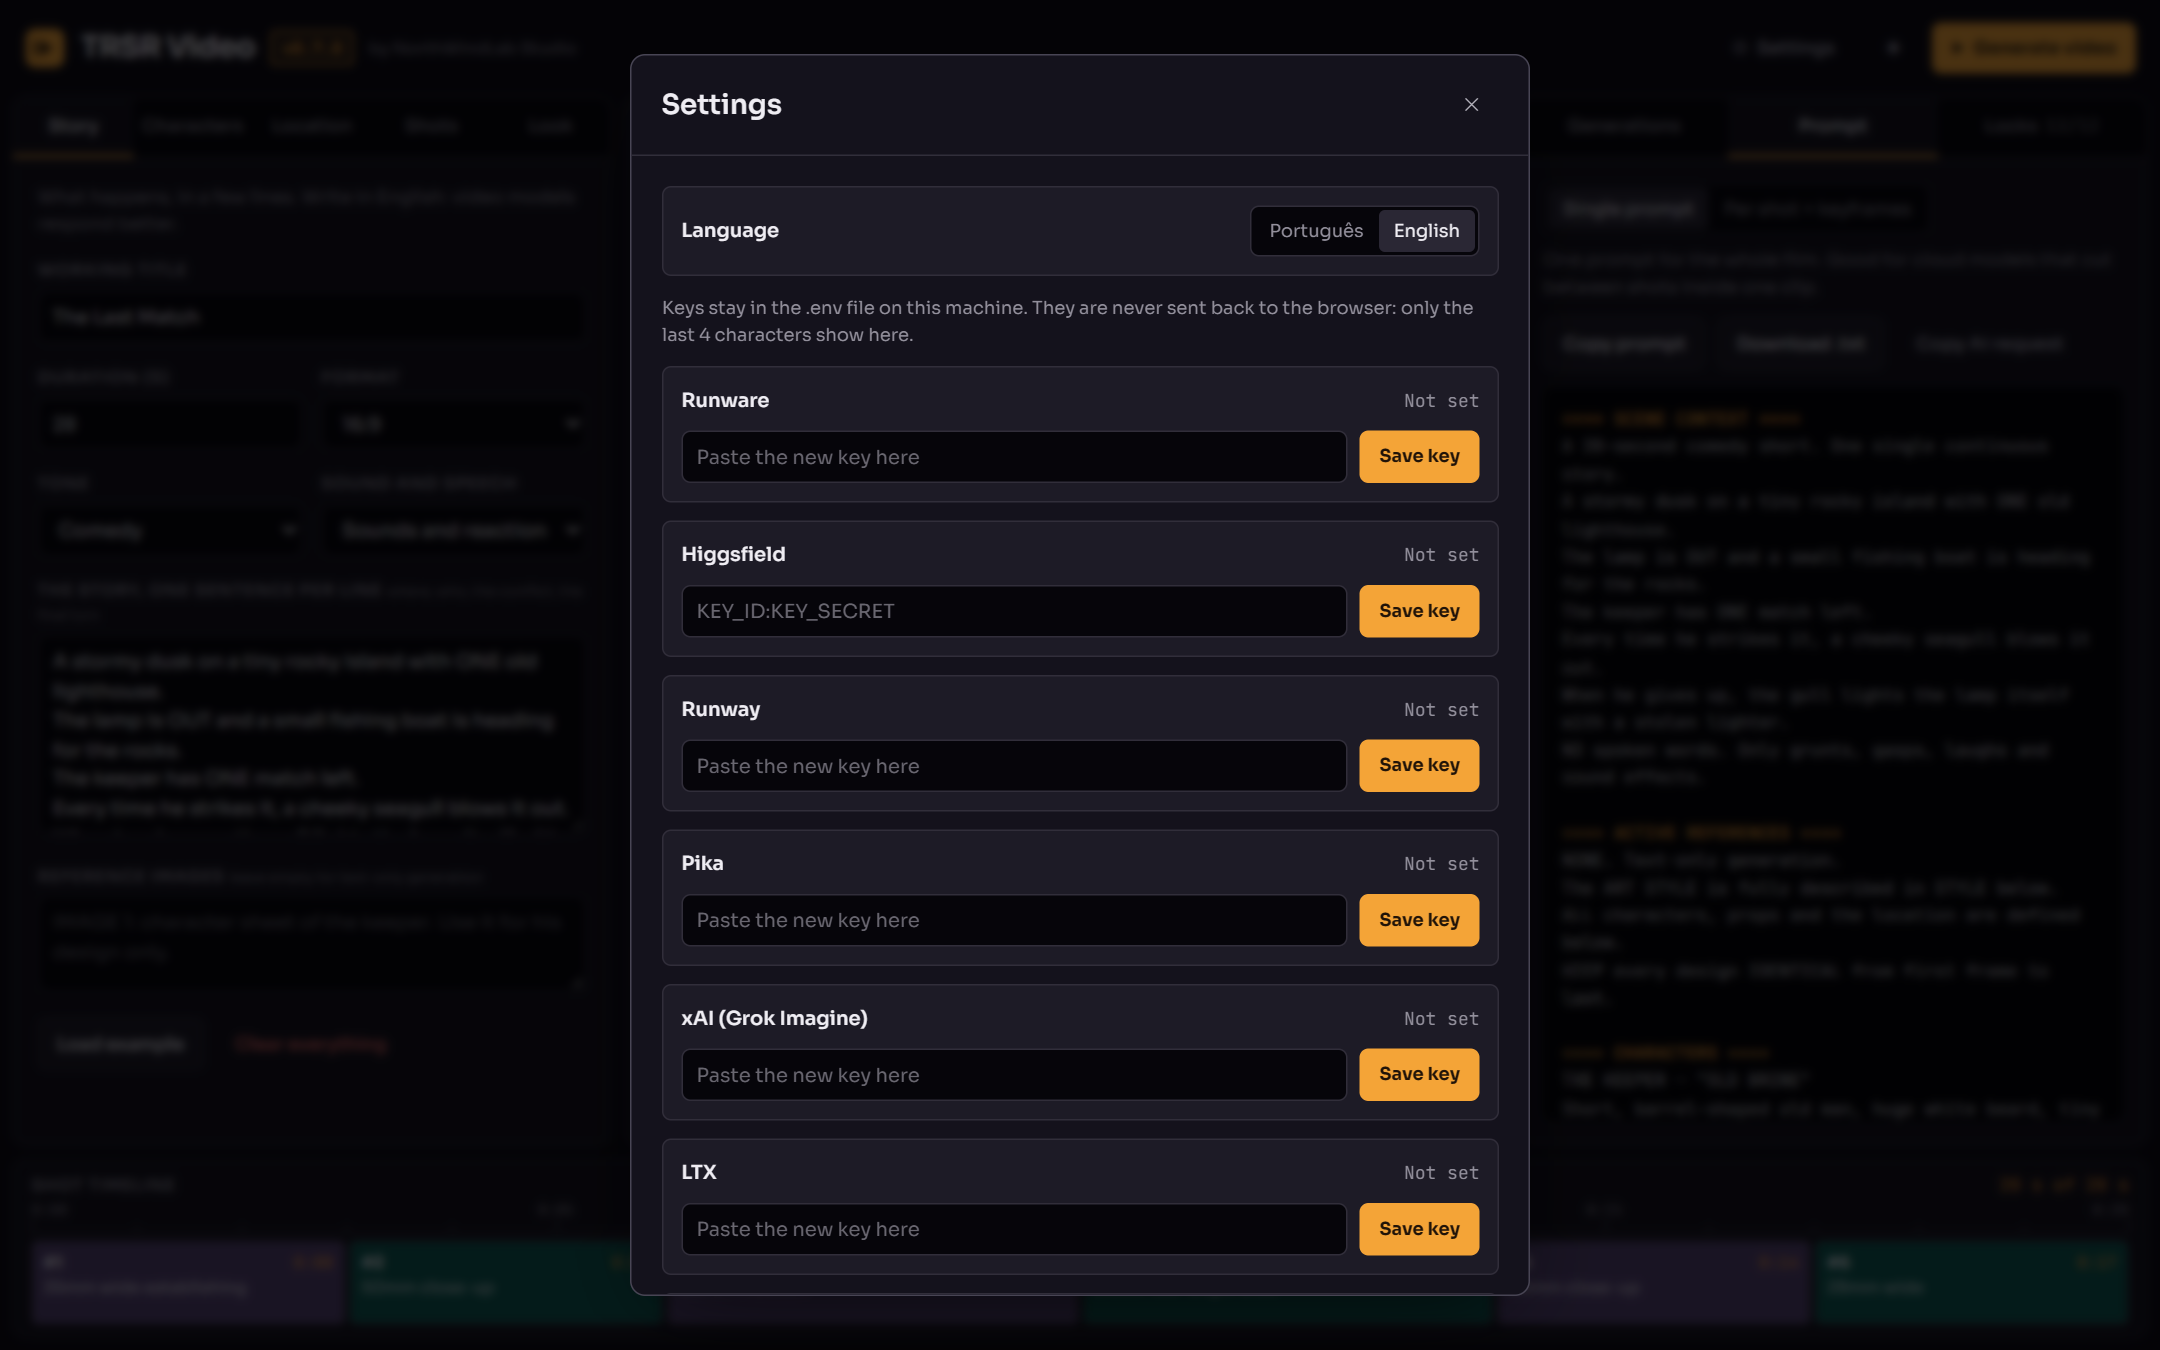
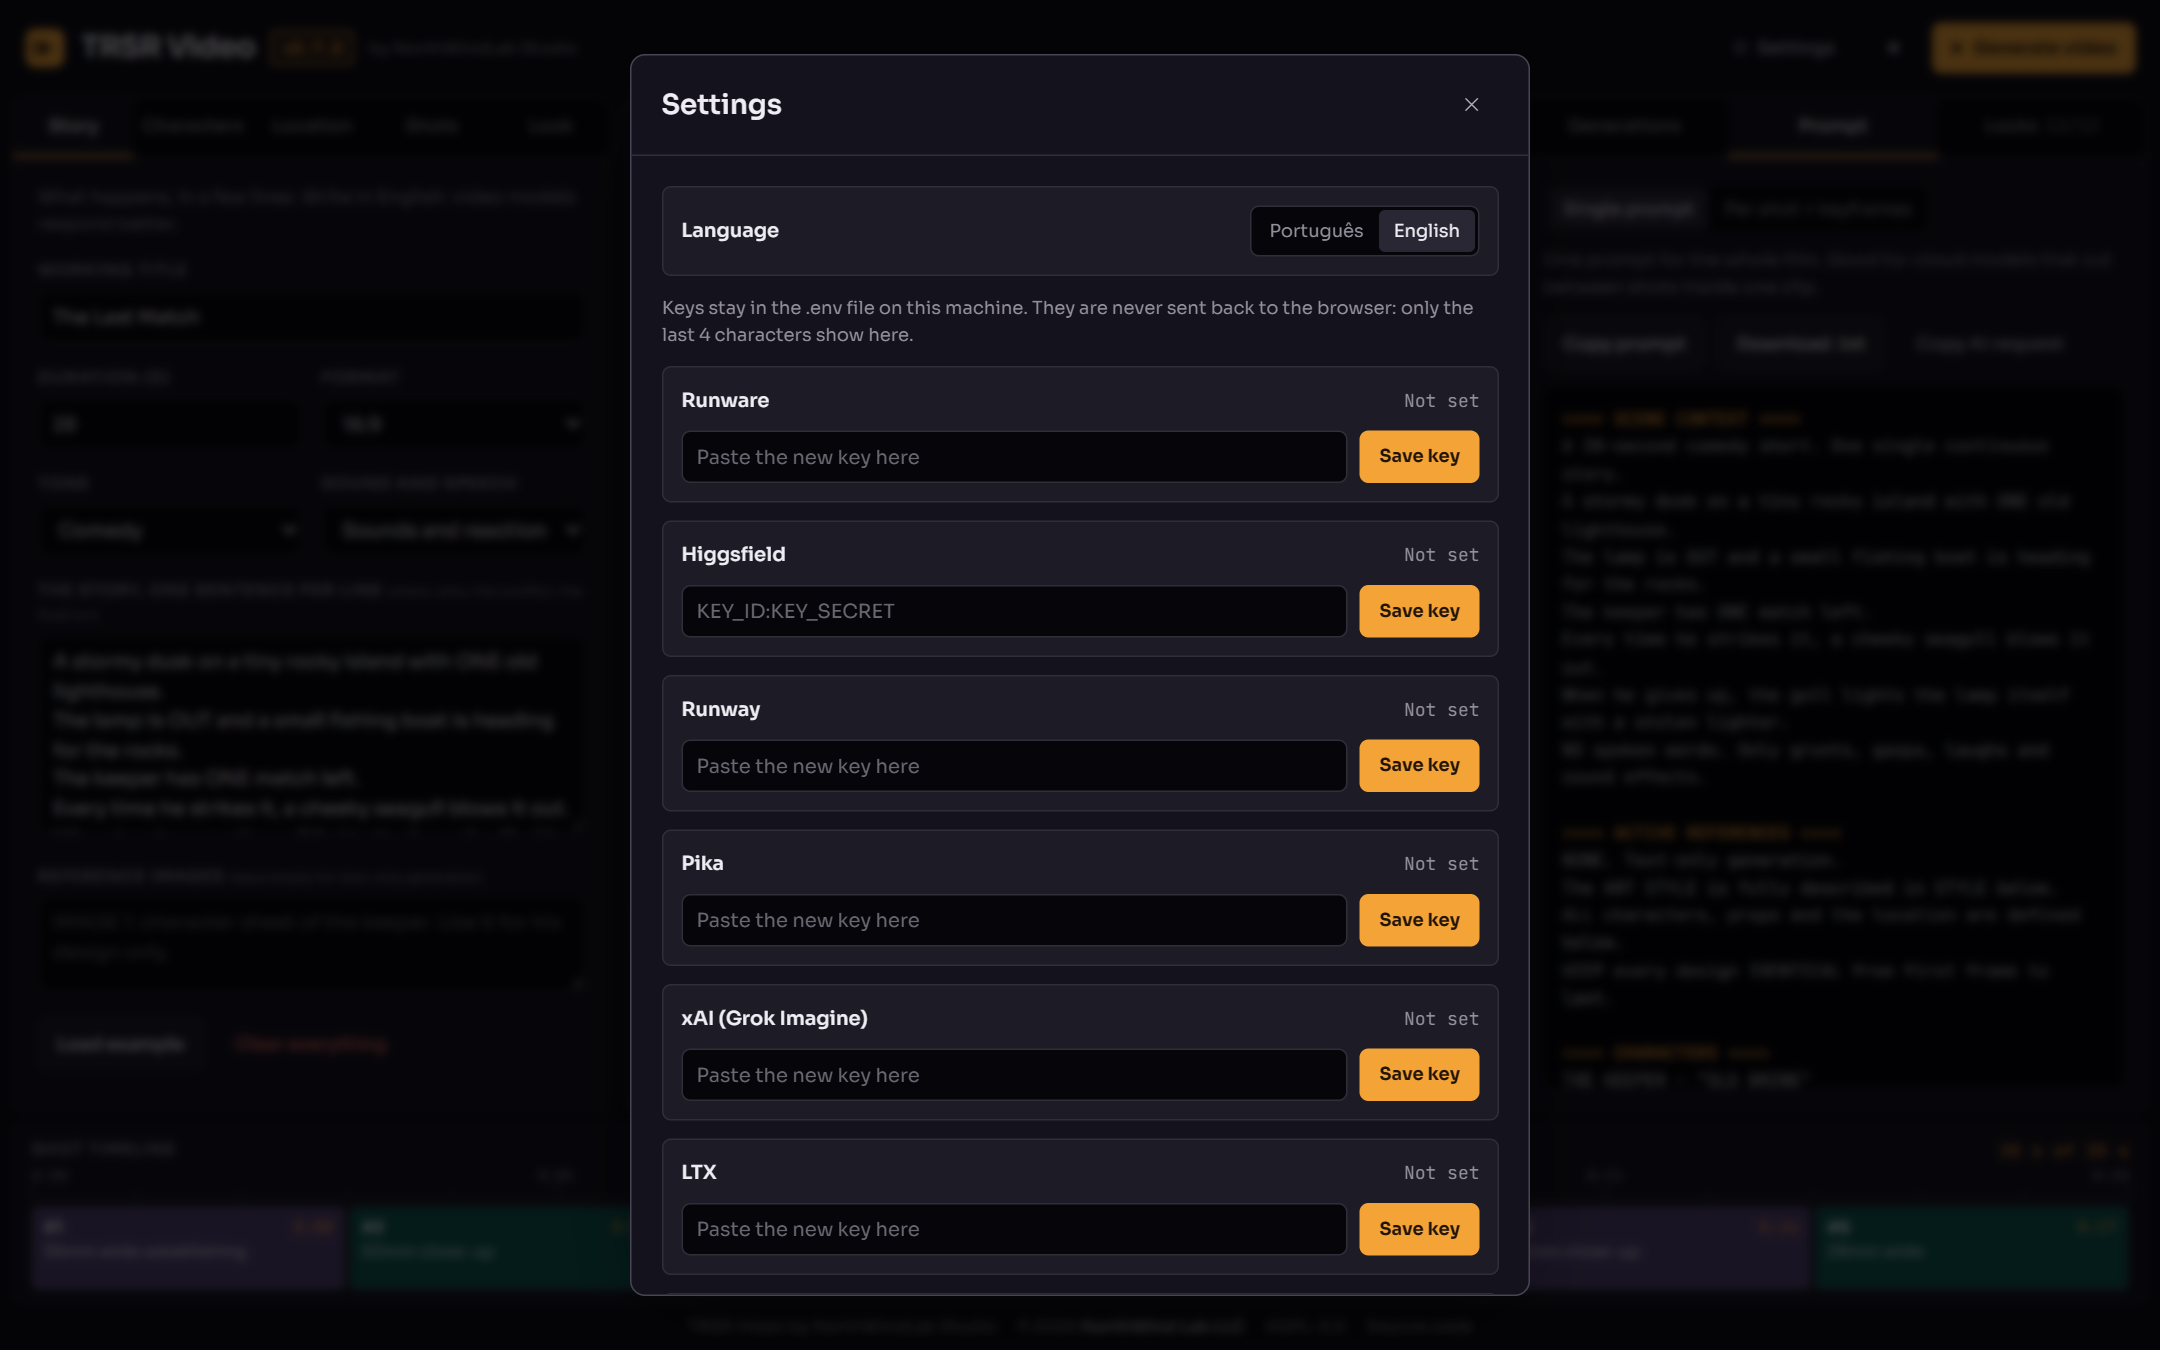
Footer with credit and NorthWind Lab LLC; credit visible on phones
- App footer: TRSR Video by NorthWindLab Studio, (c) NorthWind Lab LLC,
  license and source links, shown on every screen size
- NOTICE and READMEs: NorthWind Lab LLC as copyright and mark holder
- Screenshots retaken with the footer

Claude-Session: https://claude.ai/code/session_01TyY1VJoLk4w8BH9Q7aPjFJ

Changed region(s): [[0.0, 0.8711, 0.1861, 0.9956], [0.6824, 0.8711, 0.8685, 0.9956]]

diff --git a/packages/web/index.html b/packages/web/index.html
@@ -252,7 +252,12 @@ summary{cursor:pointer;font-weight:500;color:var(--text-2)}
 .dlg>.actions:last-child{justify-content:flex-end;margin:16px -20px -20px;padding:14px 20px;border-top:1px solid var(--line)}
 
 .bar{display:none}
+.legal{flex:none;display:flex;flex-wrap:wrap;justify-content:center;gap:2px 14px;font-size:11px;line-height:1.4;color:var(--text-3);padding:0 8px}
+.legal a{color:inherit;text-decoration:none}
+.legal a:hover{color:var(--text-2);text-decoration:underline}
+.legal b{font-weight:600;color:var(--text-2)}
 @media(max-width:1099px){
+  .legal{order:4;padding:8px}
   html,body{height:auto}
   body{display:flex;padding-bottom:76px}
   .workspace{display:flex;flex-direction:column;order:3}
@@ -434,6 +439,13 @@ summary{cursor:pointer;font-weight:500;color:var(--text-2)}
   <option value="SNAP ZOOM into the face."><option value="Gentle handheld drift."><option value="Slow orbit around the subject.">
   <option value="Crane up to reveal the whole scene.">
 </datalist>
+
+<footer class="legal">
+  <span><a href="https://northwindlab.com" target="_blank" rel="noopener">TRSR Video by NorthWindLab Studio</a></span>
+  <span>&copy; 2026 <b>NorthWind Lab LLC</b></span>
+  <span><a href="https://www.gnu.org/licenses/agpl-3.0.html" target="_blank" rel="noopener">AGPL-3.0</a></span>
+  <span><a href="https://github.com/Eddienews/trsr-video" target="_blank" rel="noopener">Source code</a></span>
+</footer>
 
 <dialog id="genDlg"><div class="dlg" id="genBody"></div></dialog>
 <dialog id="setDlg"><div class="dlg" id="setBody"></div></dialog>

diff --git a/README.pt-BR.md b/README.pt-BR.md
@@ -2,7 +2,7 @@
 
 [English](README.md) | **Português**
 
-Estúdio de vídeo com IA da NorthWindLab Studio. Você monta o filme (história, personagens, cenário, tomadas, visual), escolhe a plataforma e o modelo, vê o custo, confirma e recebe o vídeo. Também dá para só copiar o prompt e gerar em outro lugar. Licença AGPL-3.0.
+Estúdio de vídeo com IA da NorthWindLab Studio, a marca de estúdio da **NorthWind Lab LLC**. Você monta o filme (história, personagens, cenário, tomadas, visual), escolhe a plataforma e o modelo, vê o custo, confirma e recebe o vídeo. Também dá para só copiar o prompt e gerar em outro lugar. Licença AGPL-3.0.
 
 ## Telas
 
@@ -125,4 +125,8 @@ GNU Affero General Public License, versão 3, veja [LICENSE](LICENSE), com os te
 - Você pode usar, estudar, alterar e compartilhar o TRSR Video.
 - Se compartilhar o programa, uma versão modificada dele, ou rodar uma versão modificada como serviço para outras pessoas, precisa publicar o seu código-fonte sob a mesma licença.
 - Toda cópia e toda versão modificada precisa manter um crédito visível na interface e na documentação, com link para [northwindlab.com](https://northwindlab.com): "TRSR Video by NorthWindLab Studio" nas cópias sem alteração, "Based on TRSR Video by NorthWindLab Studio" nas modificadas.
-- "TRSR Video" e "NorthWindLab" são marcas da NorthWindLab Studio. Uma versão modificada precisa de nome e logo próprios.
+- "TRSR Video" e "NorthWindLab" são marcas da NorthWind Lab LLC. Uma versão modificada precisa de nome e logo próprios.
+
+---
+
+© 2026 **NorthWind Lab LLC** · [northwindlab.com](https://northwindlab.com) · contact@northwindlab.com

diff --git a/README.md b/README.md
@@ -2,7 +2,7 @@
 
 **English** | [Português](README.pt-BR.md)
 
-AI video studio by NorthWindLab Studio. You build the film (story, characters, location, shots, look), pick the platform and the model, see the cost, confirm, and get the video. You can also just copy the prompt and generate somewhere else. AGPL-3.0 license.
+AI video studio by NorthWindLab Studio, the studio brand of **NorthWind Lab LLC**. You build the film (story, characters, location, shots, look), pick the platform and the model, see the cost, confirm, and get the video. You can also just copy the prompt and generate somewhere else. AGPL-3.0 license.
 
 ## Screenshots
 
@@ -131,4 +131,8 @@ GNU Affero General Public License, version 3, see [LICENSE](LICENSE), with the a
 - You can use, study, change and share TRSR Video.
 - If you share it, a modified version of it, or run a modified version as a service for other people, you must publish your source code under the same license.
 - Every copy and every modified version must keep a visible credit in the interface and in the documentation, linked to [northwindlab.com](https://northwindlab.com): "TRSR Video by NorthWindLab Studio" for unmodified copies, "Based on TRSR Video by NorthWindLab Studio" for modified ones.
-- "TRSR Video" and "NorthWindLab" are marks of NorthWindLab Studio. A modified version needs its own name and logo.
+- "TRSR Video" and "NorthWindLab" are marks of NorthWind Lab LLC. A modified version needs its own name and logo.
+
+---
+
+© 2026 **NorthWind Lab LLC** · [northwindlab.com](https://northwindlab.com) · contact@northwindlab.com
